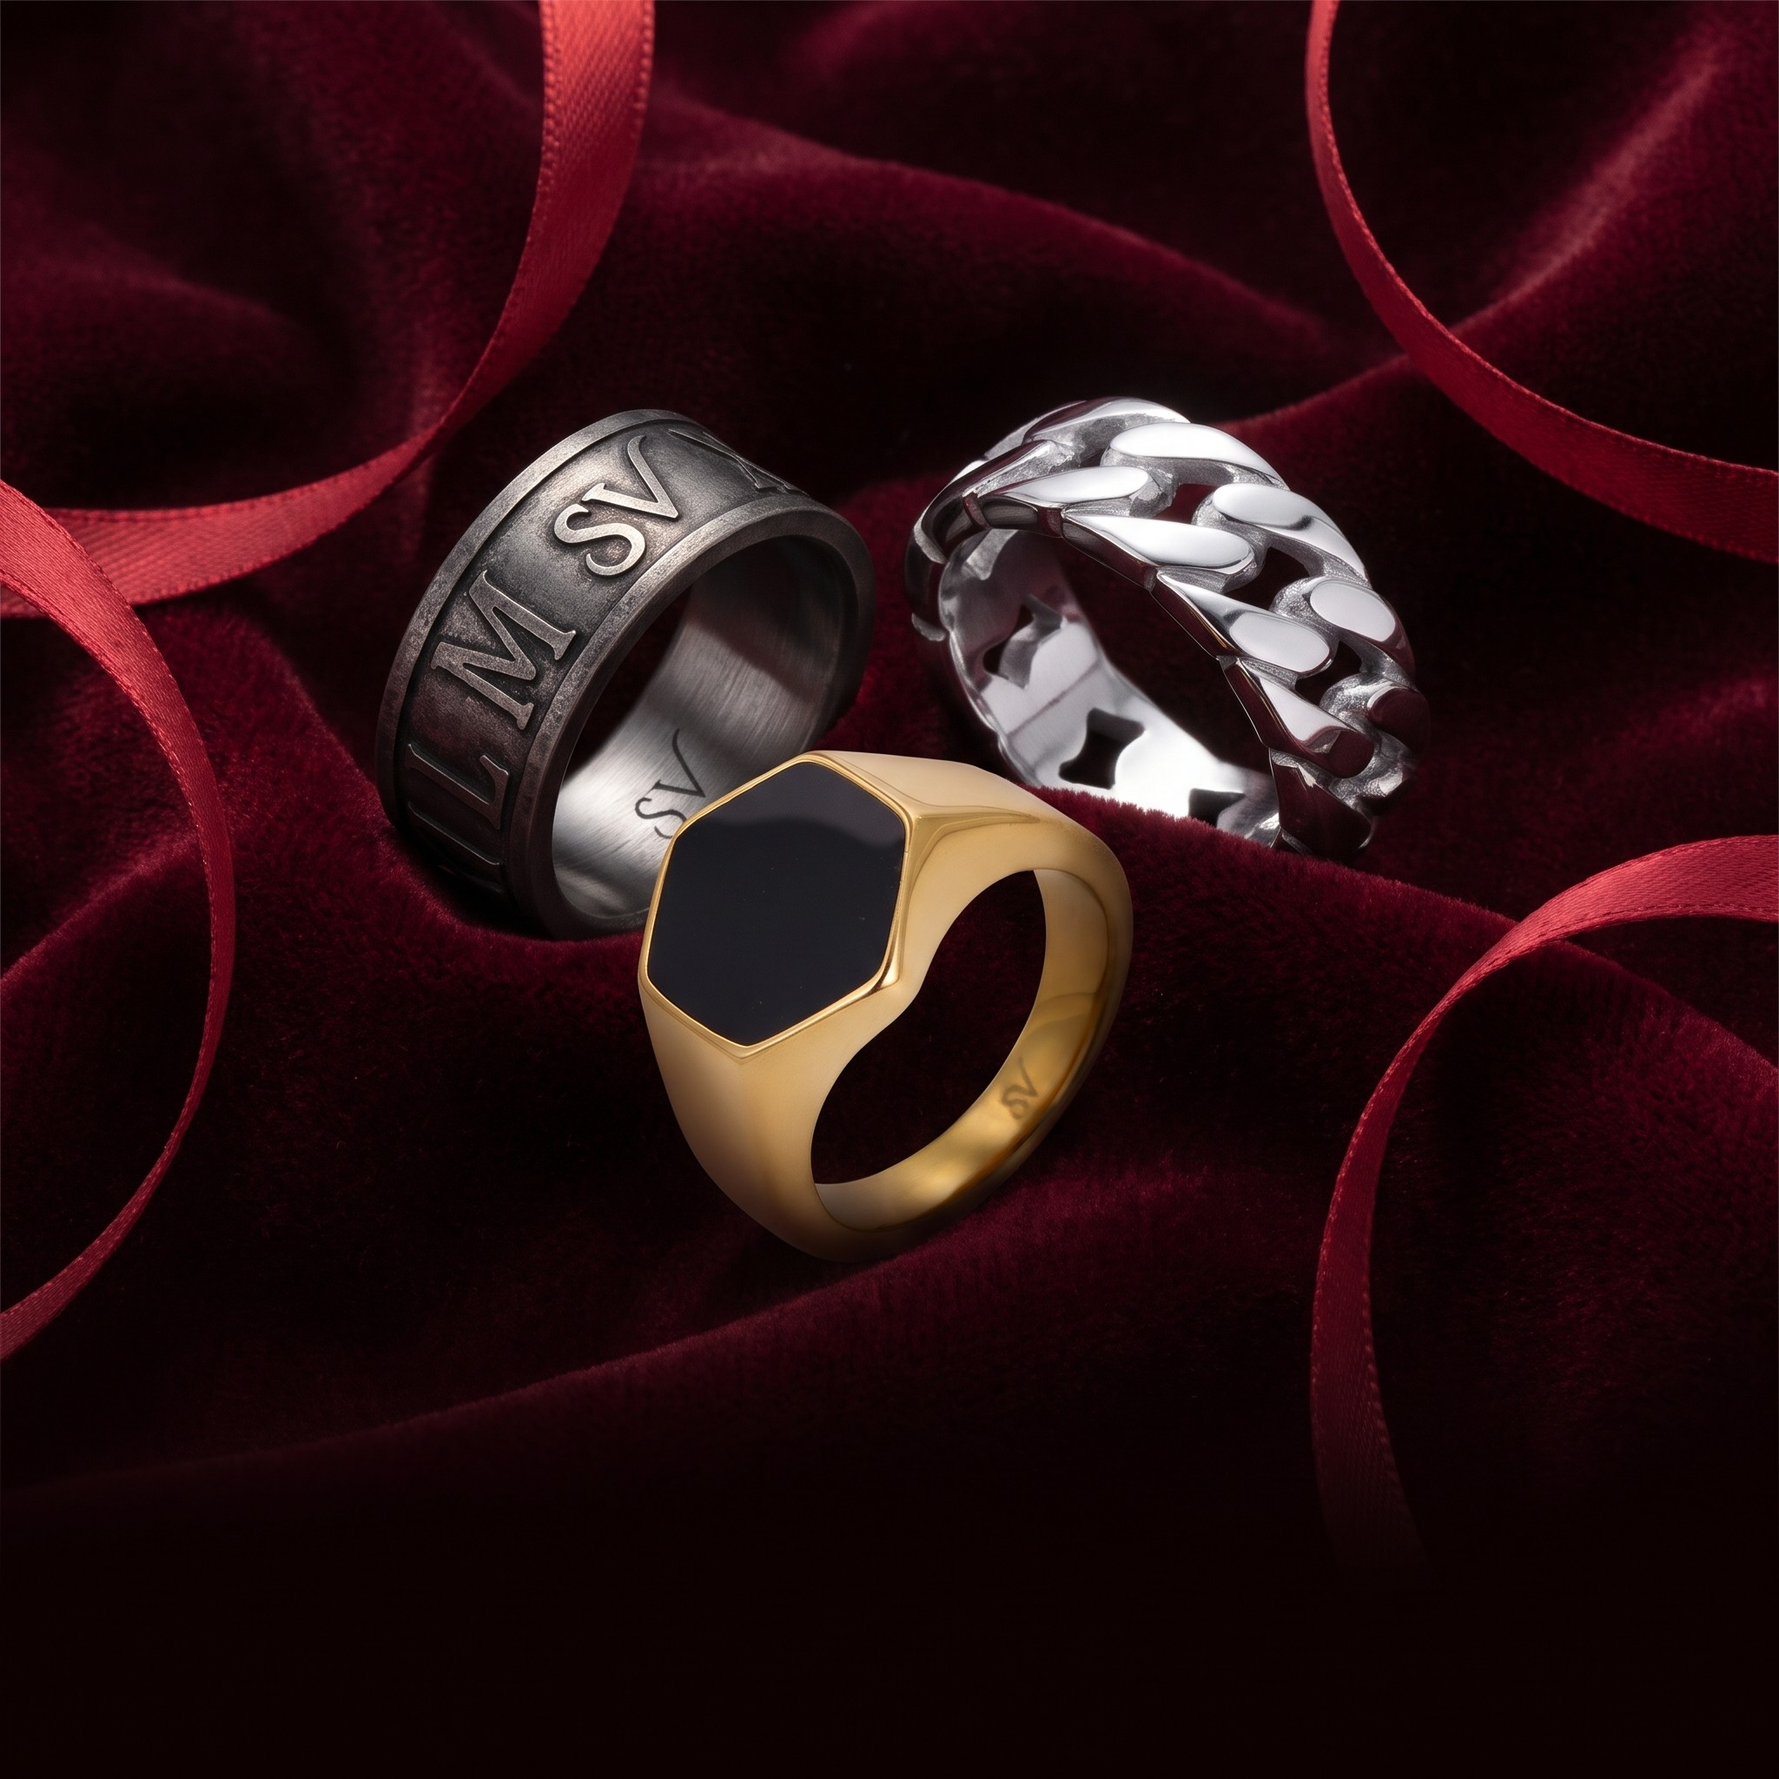
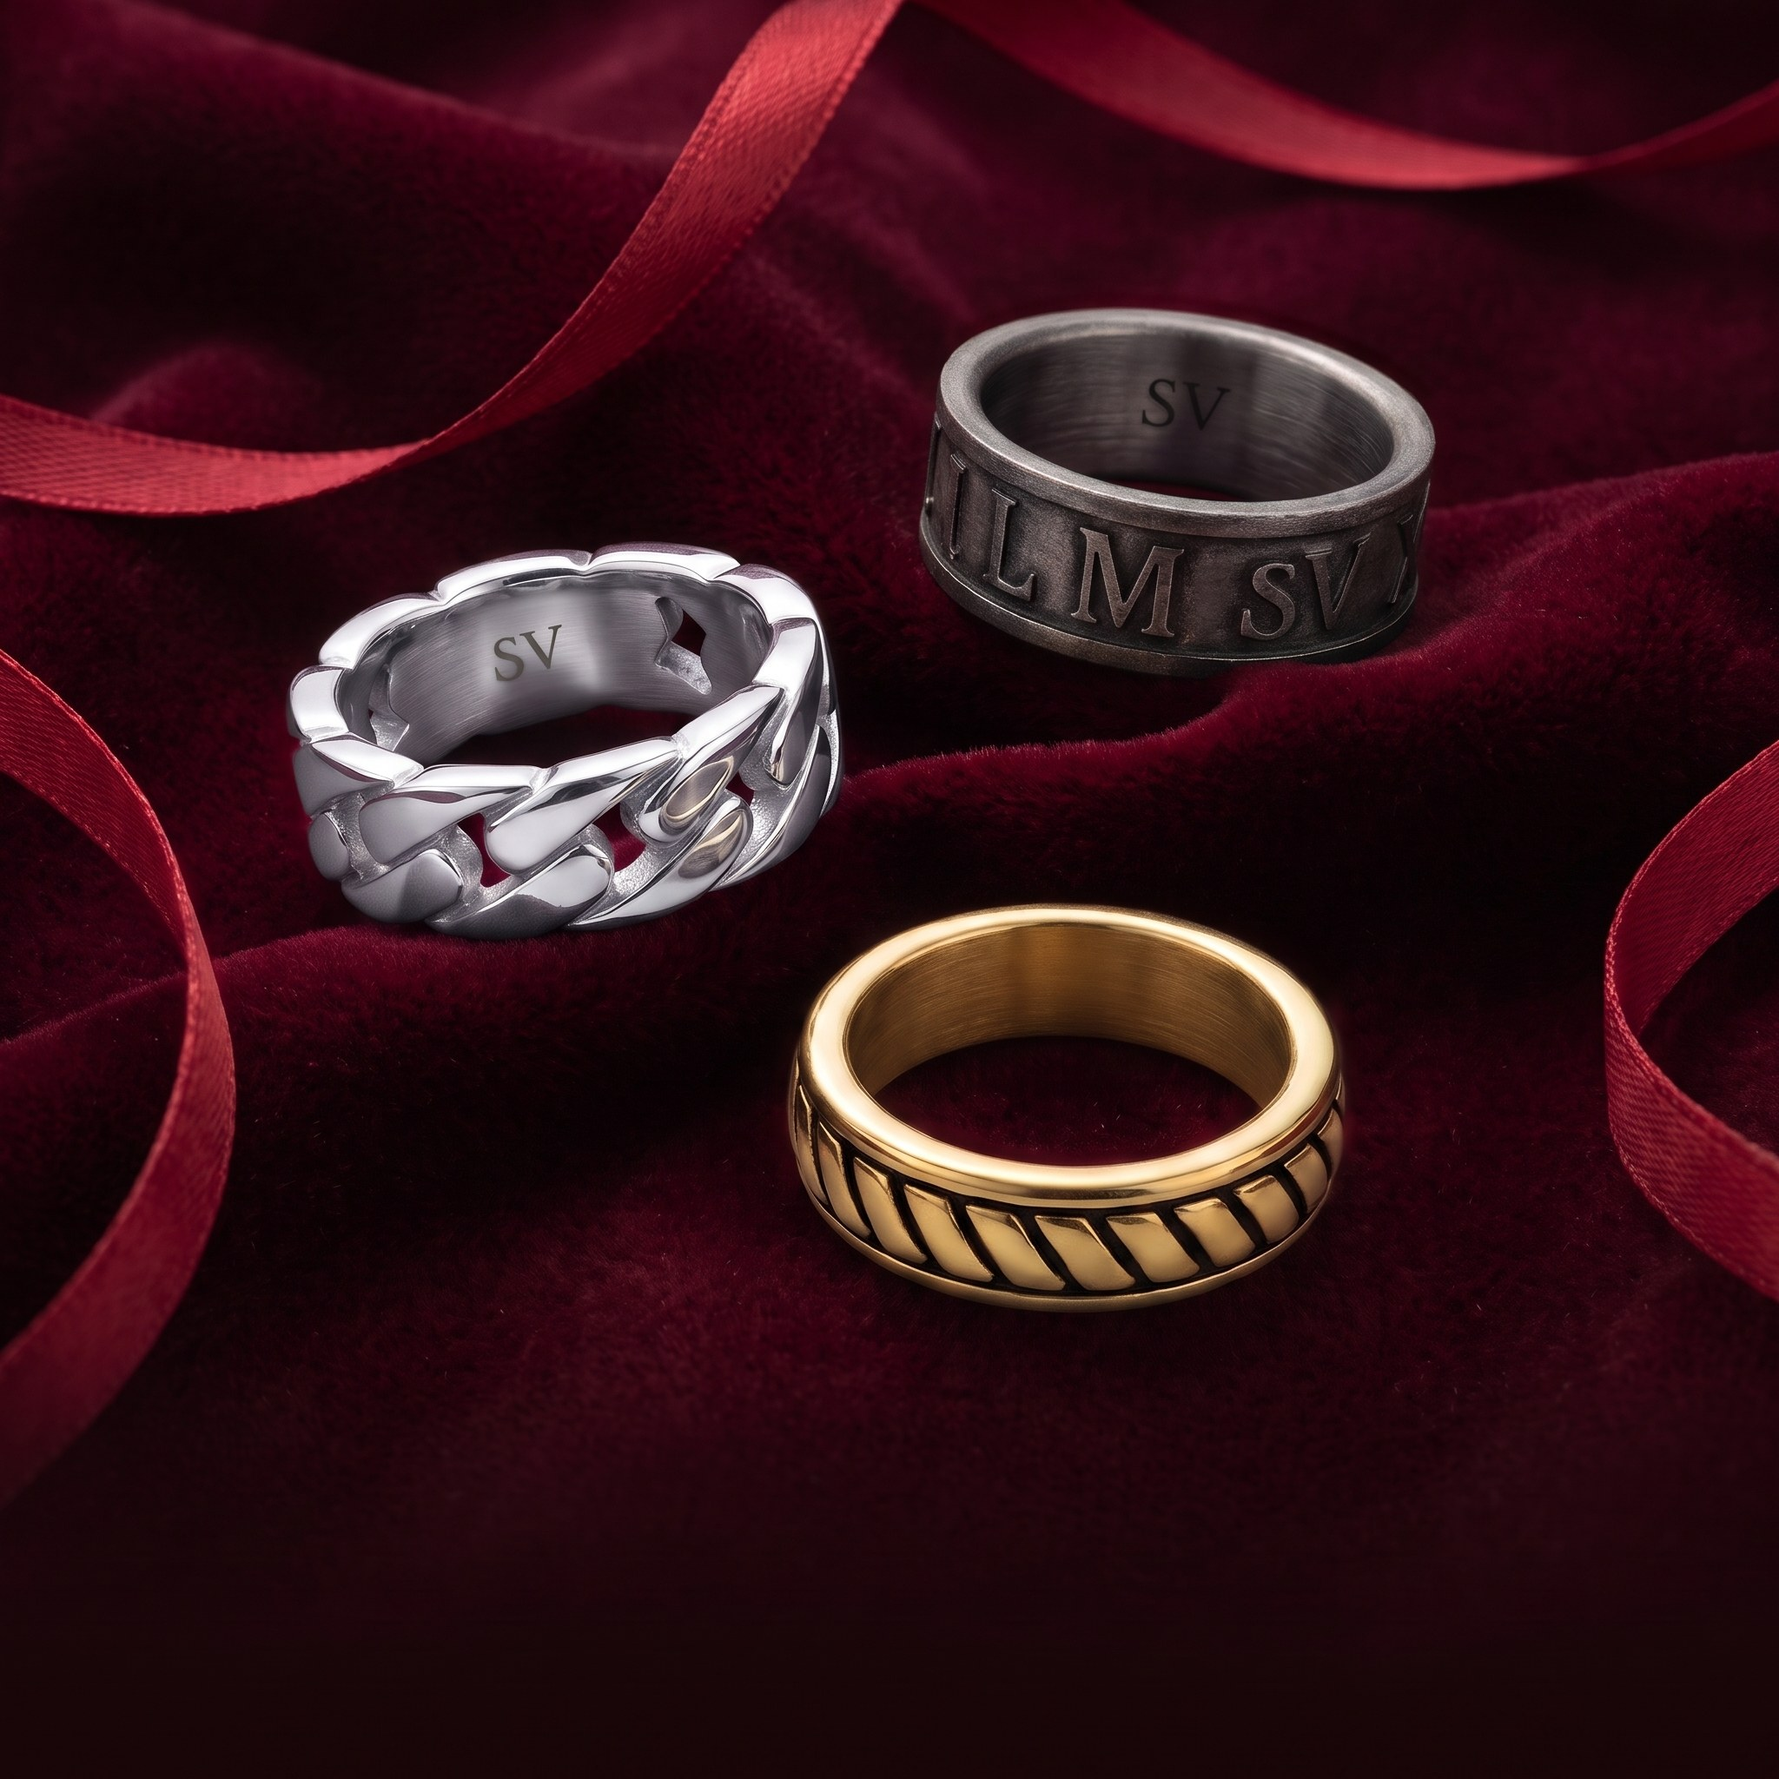
Anillos de Navidad acostados con el Eros Oro, y el botón de Navidad reemplaza la foto en el mismo archivo

diff --git a/admin/app.js b/admin/app.js
@@ -1,49 +1,49 @@
 /* Saint Venik · Panel de la app. Sin framework ni paso de compilacion: son
  * archivos estaticos que el admin de Shopify carga embebidos. */
-import { estaEmbebida } from './api.js?v=202611091949';
+import { estaEmbebida } from './api.js?v=202611092003';
 import {
   cargarColores, guardarColor, crearColor, borrarColor, problemasDe, ordenarComoLaTienda,
   guardarImagenColor, camposDeColor,
-} from './colores.js?v=202611091949';
+} from './colores.js?v=202611092003';
 import {
   leerConfig, guardarOrdenColores, guardarTextosBoton, guardarApariencia,
   guardarPildora, camposDeConfig, PILDORA_POR_DEFECTO,
   guardarDescuento, guardarMenu, guardarInicio, DESCUENTO_POR_DEFECTO, FORMATOS_DESCUENTO, textoDescuento, contarConDescuento,
   guardarTransicion, TRANSICION_POR_DEFECTO, guardarFiltrosConfig, FILTROS_POR_DEFECTO,
-} from './config.js?v=202611091949';
+} from './config.js?v=202611092003';
 import {
   FILTROS as FILTROS_PRODUCTO, cargarBotones, crearBoton, guardarBoton, borrarBoton,
   cargarProductosFiltro, guardarClasificacion, sugerir,
-} from './filtros.js?v=202611091949';
+} from './filtros.js?v=202611092003';
 import {
   buscarProductos, todosLosProductos, vincular, desvincular, sinHermano, sinColor, ponerEtiquetaColor,
-} from './productos.js?v=202611091949';
-import { prepararNavidad } from './inicio.js?v=202611091949';
-import { subirArchivo, elegirDeBiblioteca, hayBiblioteca, copiarArchivo } from './archivos.js?v=202611091949';
+} from './productos.js?v=202611092003';
+import { prepararNavidad } from './inicio.js?v=202611092003';
+import { subirArchivo, elegirDeBiblioteca, hayBiblioteca, copiarArchivo, reemplazarArchivo } from './archivos.js?v=202611092003';
 import {
   estadoEstructura, revisarEstructura, crearEstructura, cargarGuias, GUIAS_INICIALES,
   crearBloque, guardarBloque, borrarBloque, moverBloque, guardarGuia, guardarArchivoDeBloque, NOMBRE_TIPO,
   revisarReparto, crearGuia, TOPE_GUIAS, importarGuias,
-} from './guias.js?v=202611091949';
+} from './guias.js?v=202611092003';
 import {
   guiaHtml, coloresHtml, visible, etiquetaHtml, beneficiosHtml, estiloEtiqueta, conAlfa, iconoHtml,
-} from './vista-previa.js?v=202611091949';
-import { cargarColecciones, cargarEtiquetasDeTienda, esResta, sinSigno, TOPE_REFERENCIAS } from './asignacion.js?v=202611091949';
+} from './vista-previa.js?v=202611092003';
+import { cargarColecciones, cargarEtiquetasDeTienda, esResta, sinSigno, TOPE_REFERENCIAS } from './asignacion.js?v=202611092003';
 import {
   cargarEtiquetas, crearEtiqueta, guardarEtiqueta, borrarEtiqueta,
   sincronizar as sincronizarEtiqueta, cuantosAlcanza as alcanceEtiqueta, camposDeEtiqueta,
   FONDO_POR_DEFECTO, TEXTO_POR_DEFECTO,
-} from './etiquetas.js?v=202611091949';
+} from './etiquetas.js?v=202611092003';
 import {
   cargarBeneficios, crearBeneficio, guardarBeneficio, borrarBeneficio,
   sincronizar as sincronizarBeneficio, cuantosAlcanza as alcanceBeneficio,
   guardarIconoImagen, camposDeBeneficio,
-} from './beneficios.js?v=202611091949';
-import { ICONOS, svgIcono } from './iconos.js?v=202611091949';
+} from './beneficios.js?v=202611092003';
+import { ICONOS, svgIcono } from './iconos.js?v=202611092003';
 
 /* La sella scripts/version.mjs al publicar. No se deduce de la URL porque ahora
  * la URL lleva un sello por minuto para saltarse la cache, no la version. */
-const VERSION = '202611091949';
+const VERSION = '202611092003';
 
 const pantalla = document.getElementById('pantalla');
 const aviso = document.getElementById('aviso');
@@ -925,6 +925,7 @@ async function pintarApariencia() {
         </s-grid>
         <p class="ayuda" id="i-enlace" hidden>Para verlo antes de encenderlo: <a target="_blank" rel="noopener" href="https://${escapar(tienda)}/?sv-vista=1">abre la tienda con este enlace</a>. Solo lo ve quien entra por ahí.</p>
         <p class="ayuda">Fotos de colección estilo Jaxxon (9-nov, Nano Banana): este botón las deja en Contenido → Archivos de la tienda como sv-inicio-cadenas.jpg, -pulseras, -colgantes y -anillos. Después se eligen en cada tarjeta de la cuadrícula.</p>
+        <p class="ayuda">«Preparar las fotos de Navidad» deja la foto de terciopelo rojo en cada colección. Si ya la tenía, la cambia por la versión más nueva en el mismo archivo, sin crear copias.</p>
         <s-stack direction="inline" gap="base">
           <s-button id="i-fotos">Traer las fotos nuevas a Archivos</s-button>
           <s-button id="i-navidad">Preparar las fotos de Navidad</s-button>
@@ -2018,7 +2019,7 @@ function conectarInicio(inicio) {
     boton.loading = true;
     try {
       const base = new URL('fotos-inicio/', location.href.split('?')[0]).href;
-      const hechas = await prepararNavidad(copiarArchivo, base);
+      const hechas = await prepararNavidad(copiarArchivo, reemplazarArchivo, base);
       avisar(`Fotos de Navidad listas en: ${hechas.join(', ')}. Se ven al poner la temporada en Navidad.`);
     } catch (error2) {
       avisar(error2.message, true);

diff --git a/admin/inicio.js b/admin/inicio.js
@@ -1,7 +1,7 @@
 /* Inicio de la tienda: la cuadrícula de colecciones sobre negro (reunión
  * 9-nov). En Navidad, cada foto es la del metacampo de colección
  * custom.foto_navidad, que esta app crea. */
-import { gql, comprobarErrores } from './api.js?v=202611091949';
+import { gql, comprobarErrores } from './api.js?v=202611092003';
 
 const METACAMPO_NAVIDAD = `
   query MetacampoNavidad {
@@ -48,18 +48,33 @@ export async function asegurarEstructuraInicio(pasos) {
 /* Las fotos de Navidad (9-nov, Nano Banana, estilo CRAFTD): se copian a Archivos
  * desde admin/fotos-inicio/ y cada una queda en el «Foto de Navidad» de su
  * colección. Con la temporada en Normal no se ve nada; en Navidad las usan la
- * cuadrícula del inicio y el carrito vacío. */
-const COLECCION = `query Coleccion($q: String!) { collections(first: 1, query: $q) { nodes { id handle } } }`;
+ * cuadrícula del inicio y el carrito vacío. Si la colección ya tiene foto, se
+ * cambia el contenido de ese mismo archivo: volver a apretar el botón no deja
+ * copias repetidas en Archivos. */
+const COLECCION = `query Coleccion($q: String!) {
+  collections(first: 1, query: $q) {
+    nodes { id handle foto: metafield(namespace: "custom", key: "foto_navidad") { reference { ... on MediaImage { id } } } }
+  }
+}`;
 const PONER = `mutation PonerNavidad($metafields: [MetafieldsSetInput!]!) {
   metafieldsSet(metafields: $metafields) { metafields { id } userErrors { field message code } }
 }`;
 
-export async function prepararNavidad(copiar, base) {
+export async function prepararNavidad(copiar, reemplazar, base) {
   const hechas = [];
+  /* ?v= para que Shopify no se lleve una copia vieja guardada en GitHub Pages. */
+  const v = Date.now();
   for (const h of ['cadenas', 'pulseras', 'colgantes', 'anillos']) {
-    const c = (await gql(COLECCION, { q: `handle:${h}` })).collections.nodes.find((n) => n.handle === h);
+    const c = (await gql(COLECCION, { q: `handle:${h}` }, { sinMemoria: true })).collections.nodes.find((n) => n.handle === h);
     if (!c) continue;
-    const f = await copiar(`${base}sv-navidad-${h}.jpg`);
+    const fuente = `${base}sv-navidad-${h}.jpg?v=${v}`;
+    const actual = c.foto?.reference?.id;
+    if (actual) {
+      await reemplazar(actual, fuente);
+      hechas.push(h);
+      continue;
+    }
+    const f = await copiar(fuente);
     comprobarErrores(await gql(PONER, {
       metafields: [{ ownerId: c.id, namespace: 'custom', key: 'foto_navidad', type: 'file_reference', value: f.id }],
     }), 'metafieldsSet');

diff --git a/admin/archivos.js b/admin/archivos.js
@@ -10,7 +10,7 @@
  * Por eso se comprueba el host ANTES de intentarlo y, si no es de los conocidos,
  * se explica que paso en vez de dejar un error mudo.
  */
-import { gql, comprobarErrores } from './api.js?v=202611091949';
+import { gql, comprobarErrores } from './api.js?v=202611092003';
 
 const HOSTS_CON_CORS = /(storage\.googleapis\.com|s3\.amazonaws\.com)$/;
 
@@ -166,4 +166,36 @@ export async function copiarArchivo(url, { imagen = true } = {}) {
   const creado = comprobarErrores(d, 'fileCreate').files[0];
   const listo = await esperarListo(creado.id);
   return { id: listo.id, url: listo.image?.url ?? listo.url ?? null };
+}
+
+/* Cambia el contenido de un archivo que ya existe sin crear otro: mismo id, asi
+ * que todo lo que lo usa (un metacampo, una tarjeta del tema) ve la foto nueva
+ * sin tocar nada mas. Shopify la descarga desde `url`. */
+const CAMBIAR = `
+  mutation CambiarArchivo($files: [FileUpdateInput!]!) {
+    fileUpdate(files: $files) {
+      files { id fileStatus }
+      userErrors { field message code }
+    }
+  }
+`;
+
+export async function reemplazarArchivo(id, url) {
+  const urlDe = (n) => n?.image?.url ?? n?.url ?? null;
+  const antes = urlDe((await gql(ESTADO, { id }, { sinMemoria: true })).node);
+  comprobarErrores(await gql(CAMBIAR, { files: [{ id, originalSource: url }] }), 'fileUpdate');
+  /* Justo despues de pedirlo todavia puede verse READY con la foto vieja: se
+   * espera a que cambie la URL (la ?v= de Shopify), con un tope. */
+  let ultimo = null;
+  for (let i = 0; i < 30; i++) {
+    await espera(1000);
+    const { node } = await gql(ESTADO, { id }, { sinMemoria: true });
+    if (node?.fileStatus === 'FAILED') throw new Error('Shopify no pudo procesar el archivo nuevo.');
+    if (node?.fileStatus === 'READY') {
+      ultimo = node;
+      if (urlDe(node) !== antes) break;
+    }
+  }
+  if (!ultimo) throw new Error('El archivo tarda más de lo normal en procesarse. Recarga en un momento.');
+  return { id: ultimo.id, url: urlDe(ultimo) };
 }

diff --git a/admin/guias.js b/admin/guias.js
@@ -26,16 +26,16 @@
  * con "La capacidad no esta activada: publishable", y aqui no aporta nada: la
  * visibilidad en la tienda ya la decide PUBLIC_READ.
  */
-import { gql, comprobarErrores, capacidadActiva, enUnaPasada } from './api.js?v=202611091949';
-import { asegurarConfig, existeConfig, faltanCamposConfig } from './config.js?v=202611091949';
-import { faltaEstructuraColor, asegurarEstructuraColor } from './colores.js?v=202611091949';
-import { copiarArchivo } from './archivos.js?v=202611091949';
-import { faltaEstructuraEtiquetas, asegurarEstructuraEtiquetas } from './etiquetas.js?v=202611091949';
-import { faltaEstructuraFiltros, asegurarEstructuraFiltros } from './filtros.js?v=202611091949';
+import { gql, comprobarErrores, capacidadActiva, enUnaPasada } from './api.js?v=202611092003';
+import { asegurarConfig, existeConfig, faltanCamposConfig } from './config.js?v=202611092003';
+import { faltaEstructuraColor, asegurarEstructuraColor } from './colores.js?v=202611092003';
+import { copiarArchivo } from './archivos.js?v=202611092003';
+import { faltaEstructuraEtiquetas, asegurarEstructuraEtiquetas } from './etiquetas.js?v=202611092003';
+import { faltaEstructuraFiltros, asegurarEstructuraFiltros } from './filtros.js?v=202611092003';
 import {
   faltaEstructuraBeneficios, asegurarEstructuraBeneficios, sembrarBeneficios,
-} from './beneficios.js?v=202611091949';
-import { faltaEstructuraInicio, asegurarEstructuraInicio } from './inicio.js?v=202611091949';
+} from './beneficios.js?v=202611092003';
+import { faltaEstructuraInicio, asegurarEstructuraInicio } from './inicio.js?v=202611092003';
 
 export const TIPO_BLOQUE = 'bloque_guia';
 

diff --git a/admin/filtros.js b/admin/filtros.js
@@ -23,11 +23,11 @@
  * filtro de Shopify puesto (?filter.p.m.custom.sv_color=Dorado). Asi los
  * botones, el menu «Filtrar» y la paginacion dicen siempre lo mismo.
  */
-import { gql, comprobarErrores } from './api.js?v=202611091949';
+import { gql, comprobarErrores } from './api.js?v=202611092003';
 import {
   aObjetoComun, cargarEntradas, crearEntrada, guardarEntrada, borrarEntrada,
   faltaEstructura, asegurarEstructura, TOPE_ENTRADAS,
-} from './asignacion.js?v=202611091949';
+} from './asignacion.js?v=202611092003';
 
 /* ---------------------------------------------------------------------------
  * Los tres metacampos de producto

diff --git a/admin/beneficios.js b/admin/beneficios.js
@@ -16,8 +16,8 @@ import {
   CAMPOS_COMUNES, aObjetoComun, cargarEntradas, camposComunes, crearEntrada,
   guardarEntrada, borrarEntrada, faltaEstructura, asegurarEstructura,
   resolverHandles, camposDeTipo, TOPE_ENTRADAS,
-} from './asignacion.js?v=202611091949';
-import { gql } from './api.js?v=202611091949';
+} from './asignacion.js?v=202611092003';
+import { gql } from './api.js?v=202611092003';
 
 export const TIPO_BENEFICIO = 'sv_beneficio';
 export const TOPE_BENEFICIOS = TOPE_ENTRADAS;

diff --git a/admin/config.js b/admin/config.js
@@ -8,7 +8,7 @@
  * el mecanismo que ya está probado de punta a punta en esta app (se escribe
  * desde el panel, se lee desde Liquid), y no añade permisos nuevos.
  */
-import { gql, comprobarErrores } from './api.js?v=202611091949';
+import { gql, comprobarErrores } from './api.js?v=202611092003';
 
 export const TIPO_CONFIG = 'sv_configuracion';
 /* Shopify admite como mucho 40 campos por definición de metaobjeto y

diff --git a/admin/etiquetas.js b/admin/etiquetas.js
@@ -12,7 +12,7 @@ import {
   CAMPOS_COMUNES, aObjetoComun, cargarEntradas, camposComunes, crearEntrada,
   guardarEntrada, borrarEntrada, faltaEstructura, asegurarEstructura,
   resolverHandles, camposDeTipo, TOPE_ENTRADAS,
-} from './asignacion.js?v=202611091949';
+} from './asignacion.js?v=202611092003';
 
 export const TIPO_ETIQUETA = 'sv_etiqueta';
 export const TOPE_ETIQUETAS = TOPE_ENTRADAS;

diff --git a/admin/asignacion.js b/admin/asignacion.js
@@ -19,7 +19,7 @@
  * y el storefront, en una pagina de coleccion, se fia de la coleccion y no de
  * la cadena.
  */
-import { gql, comprobarErrores, capacidadActiva } from './api.js?v=202611091949';
+import { gql, comprobarErrores, capacidadActiva } from './api.js?v=202611092003';
 
 /* Los campos que comparten los dos tipos. Cada pantalla añade los suyos. */
 export const CAMPOS_COMUNES = [

diff --git a/admin/productos.js b/admin/productos.js
@@ -9,7 +9,7 @@
  * selector apareciendo en una ficha y no en la otra, que es un fallo molesto de
  * encontrar porque cada ficha por separado parece correcta.
  */
-import { gql, comprobarErrores } from './api.js?v=202611091949';
+import { gql, comprobarErrores } from './api.js?v=202611092003';
 
 const NAMESPACE = 'custom';
 const CLAVE = 'hermano_de_color';

diff --git a/admin/colores.js b/admin/colores.js
@@ -5,7 +5,7 @@
  * color es la etiqueta: el producto lleva `oro` o `acero-inox`, y la entrada
  * guarda esa misma etiqueta en el campo `etiqueta`.
  */
-import { gql, comprobarErrores, capacidadActiva } from './api.js?v=202611091949';
+import { gql, comprobarErrores, capacidadActiva } from './api.js?v=202611092003';
 
 export const TIPO_COLOR = 'color';
 

diff --git a/admin/vista-previa.js b/admin/vista-previa.js
@@ -6,7 +6,7 @@
  * que los pone el tema; en estructura, orden y visibilidad por idioma, no.
  */
 
-import { svgIcono } from './iconos.js?v=202611091949';
+import { svgIcono } from './iconos.js?v=202611092003';
 
 const ID_YOUTUBE = /(?:youtube\.com\/(?:watch\?v=|embed\/)|youtu\.be\/)([\w-]{11})/;
 
